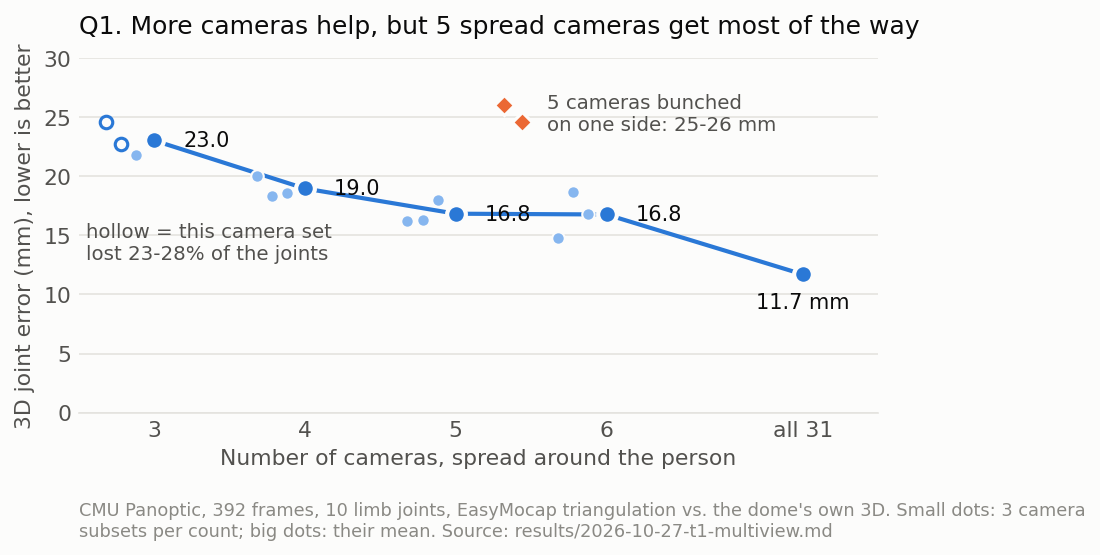
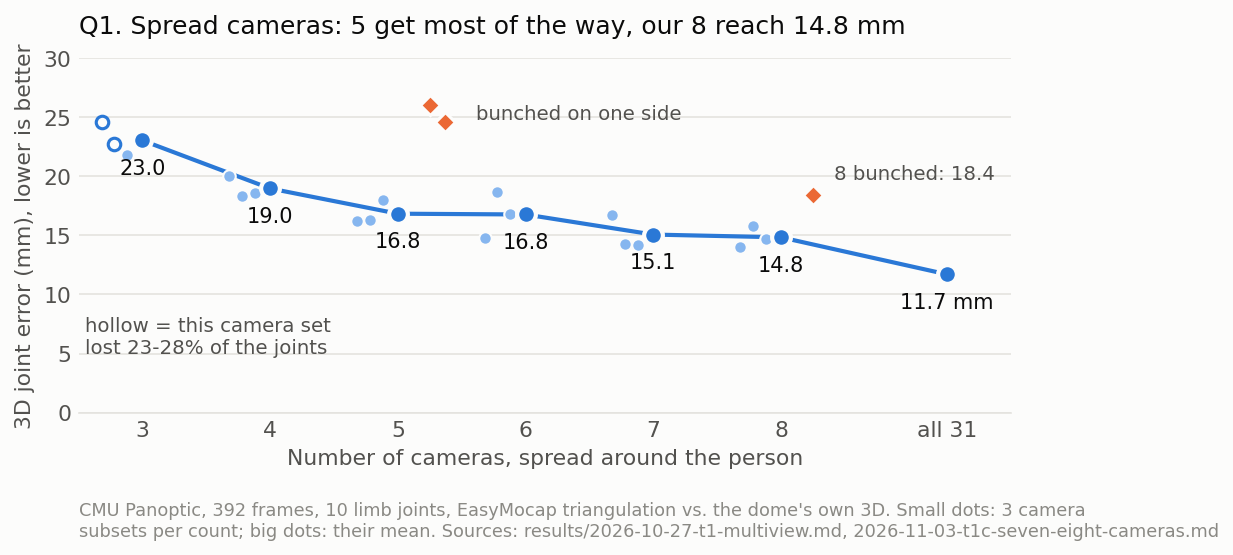
T1c: 7 and 8 cameras on Panoptic (our rig has 8 GoPros): 8 spread 14.8 mm, 8 bunched 18.4 mm; figure updated

diff --git a/reconstruction/tools/make_summary_figures.py b/reconstruction/tools/make_summary_figures.py
@@ -37,46 +37,53 @@ def style(ax, grid_axis="y"):
 
 
 def fig_cameras(out):
-    # 2026-10-27-t1-multiview.md, camera-count table: MPJPE, 10 limb joints, CMU Panoptic 171204_pose1.
-    spread = {3: [24.6, 22.7, 21.8], 4: [20.0, 18.3, 18.6], 5: [16.2, 16.3, 18.0], 6: [14.8, 18.7, 16.8]}
+    # 2026-10-27-t1-multiview.md (3-6 and 31 cameras) and 2026-11-03-t1c-seven-eight-cameras.md (7, 8):
+    # MPJPE, 10 limb joints, CMU Panoptic 171204_pose1.
+    spread = {3: [24.6, 22.7, 21.8], 4: [20.0, 18.3, 18.6], 5: [16.2, 16.3, 18.0], 6: [14.8, 18.7, 16.8],
+              7: [16.7, 14.3, 14.2], 8: [14.0, 15.8, 14.7]}
     lost = {3: [True, True, False]}          # subsets that dropped 23-28% of the joints
     clustered5 = [26.0, 24.6]                # 5 cameras bunched on one side (87-104 degree arc)
+    clustered8 = 18.4                        # 8 cameras bunched on one side (157 degree arc)
     all31 = 11.7
-    xs = [0, 1, 2, 3, 4.3]
-    labels = ["3", "4", "5", "6", "all 31"]
+    counts = (3, 4, 5, 6, 7, 8)
+    xs = [0, 1, 2, 3, 4, 5, 6.3]
+    labels = ["3", "4", "5", "6", "7", "8", "all 31"]
 
-    fig, ax = plt.subplots(figsize=(7.2, 4.0), dpi=150)
+    fig, ax = plt.subplots(figsize=(8.2, 4.0), dpi=150)
     style(ax)
     means = []
-    for x, n in zip(xs[:4], (3, 4, 5, 6)):
+    for x, n in zip(xs[:6], counts):
         vals = spread[n]
         means.append(sum(vals) / 3)
         for i, v in enumerate(vals):
             hollow = lost.get(n, [False] * 3)[i]
             ax.plot(x - 0.32 + 0.1 * i, v, "o", ms=6, mfc=SURFACE if hollow else "#86b6ef",
                     mec=BLUE if hollow else SURFACE, mew=1.5 if hollow else 1.0, zorder=3)
-    ax.plot(xs[:4] + [xs[4]], means + [all31], "-", color=BLUE, lw=2, zorder=2)
-    ax.plot(xs[:4] + [xs[4]], means + [all31], "o", ms=9, color=BLUE, mec=SURFACE, mew=2, zorder=4)
-    for x, m in zip(xs[:4], means):
-        ax.annotate(f"{m:.1f}", (x, m), xytext=(14, 0), textcoords="offset points", va="center",
+    ax.plot(xs, means + [all31], "-", color=BLUE, lw=2, zorder=2)
+    ax.plot(xs, means + [all31], "o", ms=9, color=BLUE, mec=SURFACE, mew=2, zorder=4)
+    for x, m in zip(xs[:6], means):
+        ax.annotate(f"{m:.1f}", (x, m), xytext=(0, -16), textcoords="offset points", ha="center",
                     color=INK, fontsize=10)
-    ax.annotate(f"{all31:.1f} mm", (xs[4], all31), xytext=(0, -16), textcoords="offset points",
+    ax.annotate(f"{all31:.1f} mm", (xs[6], all31), xytext=(0, -16), textcoords="offset points",
                 ha="center", color=INK, fontsize=10)
     for i, v in enumerate(clustered5):
-        ax.plot(2.32 + 0.12 * i, v, "D", ms=7, color=ORANGE, mec=SURFACE, mew=1.5, zorder=4)
-    ax.annotate("5 cameras bunched\non one side: 25-26 mm", (2.44, 25.3), xytext=(12, 0),
-                textcoords="offset points", va="center", color=INK2, fontsize=9.5)
-    ax.text(-0.45, 13.0, "hollow = this camera set\nlost 23-28% of the joints", color=INK2, fontsize=9.5)
+        ax.plot(2.25 + 0.12 * i, v, "D", ms=7, color=ORANGE, mec=SURFACE, mew=1.5, zorder=4)
+    ax.plot(5.25, clustered8, "D", ms=7, color=ORANGE, mec=SURFACE, mew=1.5, zorder=4)
+    ax.annotate("bunched on one side", (2.45, 25.3), xytext=(10, 0), textcoords="offset points", va="center",
+                color=INK2, fontsize=9.5)
+    ax.annotate("8 bunched: 18.4", (5.25, clustered8), xytext=(10, 6), textcoords="offset points", va="bottom",
+                color=INK2, fontsize=9.5)
+    ax.text(-0.45, 5.0, "hollow = this camera set\nlost 23-28% of the joints", color=INK2, fontsize=9.5)
     ax.set_xticks(xs, labels)
-    ax.set_xlim(-0.5, 4.8)
+    ax.set_xlim(-0.5, 6.8)
     ax.set_ylim(0, 30)
     ax.set_xlabel("Number of cameras, spread around the person")
     ax.set_ylabel("3D joint error (mm), lower is better")
-    ax.set_title("Q1. More cameras help, but 5 spread cameras get most of the way",
+    ax.set_title("Q1. Spread cameras: 5 get most of the way, our 8 reach 14.8 mm",
                  loc="left", fontsize=12, color=INK, pad=12)
     ax.text(0, -0.25, "CMU Panoptic, 392 frames, 10 limb joints, EasyMocap triangulation vs. the dome's own 3D. "
-            "Small dots: 3 camera\nsubsets per count; big dots: their mean. Source: results/2026-10-27-t1-multiview.md",
-            transform=ax.transAxes, fontsize=8.5, color=MUTED, va="top")
+            "Small dots: 3 camera\nsubsets per count; big dots: their mean. Sources: results/2026-10-27-t1-multiview.md, "
+            "2026-11-03-t1c-seven-eight-cameras.md", transform=ax.transAxes, fontsize=8.5, color=MUTED, va="top")
     fig.tight_layout()
     fig.savefig(out / "q1_camera_count.png", bbox_inches="tight")
     plt.close(fig)

diff --git a/reconstruction/tools/t1c_pick.py b/reconstruction/tools/t1c_pick.py
@@ -1,0 +1,34 @@
+"""T1c: choose 7- and 8-camera Panoptic subsets with T1's rule (mid-height cameras, 0.5-1.5 m above
+the hip; A = smallest largest azimuth gap, B and C = next best, each differing from A by >= 2 cameras),
+plus 8 bunched = the 8 consecutive mid-height cameras spanning the narrowest arc."""
+from itertools import combinations
+
+AZ = {"00": 184.7, "03": 36.9, "05": 108.3, "08": 260.0, "11": 239.5, "12": 87.2, "16": 310.1, "18": 17.4,
+      "20": 135.2, "21": 162.8, "22": 61.8, "23": 329.1, "27": 285.4, "29": 212.5, "30": 353.4}
+
+
+def max_gap(cams):
+    a = sorted(AZ[c] for c in cams)
+    return max([b - x for x, b in zip(a, a[1:])] + [a[0] + 360 - a[-1]])
+
+
+for n in (7, 8):
+    ranked = sorted(combinations(sorted(AZ), n), key=lambda s: (max_gap(s), s))
+    a = ranked[0]
+    picks = [a]
+    for s in ranked[1:]:
+        if len(set(a) - set(s)) >= 2 and all(len(set(p) - set(s)) >= 1 for p in picks):
+            picks.append(s)
+        if len(picks) == 3:
+            break
+    for tag, s in zip(("", "_alt1", "_alt2"), picks):
+        order = sorted(s, key=lambda c: AZ[c])
+        print(f"s{n}{tag}|{' '.join(order)}|{max_gap(s):.0f}")
+order = sorted(AZ, key=lambda c: AZ[c])
+best = None
+for i in range(len(order)):
+    s = [order[(i + k) % len(order)] for k in range(8)]
+    span = (AZ[s[-1]] - AZ[s[0]]) % 360
+    if best is None or span < best[0]:
+        best = (span, s)
+print(f"c8bunch|{' '.join(best[1])}|span{best[0]:.0f}")

diff --git a/README.md b/README.md
@@ -14,7 +14,7 @@ Every result below comes from a public dataset that has ground truth, so each nu
 
 | Question | Answer so far | Evidence |
 |---|---|---|
-| **Q1. How many cameras do we need?** | <ul><li>5–6 cameras spread around the person: about **17 mm** average joint error.</li><li>All 31 cameras: 11.7 mm.</li><li>3 cameras: about 23 mm. Two of the three 3-camera sets also lost 23–28% of the joints.</li><li>5 cameras bunched on one side: 25–26 mm.</li><li>One camera a frame out of sync adds only 0.3 mm.</li><li>Adding EasyMocap's default SMPL body fit makes every layout worse (43–47 mm with 4 or more cameras). The joints it fills in where 3 cameras lost them are guesses, about 117 mm off.</li></ul> | [T1](reconstruction/results/2026-10-27-t1-multiview.md), [T1b](reconstruction/results/2026-11-03-t1b-panoptic-smpl.md), CMU Panoptic |
+| **Q1. How many cameras do we need?** | <ul><li>5–6 cameras spread around the person: about **17 mm** average joint error. **8 cameras, the size of our rig: 14.8 mm.**</li><li>All 31 cameras: 11.7 mm.</li><li>3 cameras: about 23 mm. Two of the three 3-camera sets also lost 23–28% of the joints.</li><li>Bunched on one side, cameras do much worse: 25–26 mm with 5, and 18.4 mm with 8, which is worse than 5 spread.</li><li>One camera a frame out of sync adds only 0.3 mm.</li><li>Adding EasyMocap's default SMPL body fit makes every layout worse (43–47 mm with 4 or more cameras). The joints it fills in where 3 cameras lost them are guesses, about 117 mm off.</li></ul> | [T1](reconstruction/results/2026-10-27-t1-multiview.md), [T1b](reconstruction/results/2026-11-03-t1b-panoptic-smpl.md), [T1c](reconstruction/results/2026-11-03-t1c-seven-eight-cameras.md), CMU Panoptic |
 | **Q2. One camera or two, for rehab exercises?** | <ul><li>Two cameras: **43 mm** with no alignment at all.</li><li>One camera (GVHMR, a recent method): 47–70 mm even after the best possible alignment, and 160–200 mm off in where the body is in the room.</li><li>Main one-camera failure: in side view, the arm behind the body is hidden and gets guessed wrong.</li><li>Two cameras plus an SMPL body model: 4.83 cm on the REHAB24-6 benchmark protocol (12 recordings), against GVHMR's 6.28 cm on the same recordings. The body model improves body shape slightly (41.2 vs. 43.1 mm after alignment), but not position.</li></ul> | [T2](reconstruction/results/2026-10-27-t2-monocular.md), [T2b](reconstruction/results/2026-10-29-t2b-calibration-benchmark.md), REHAB24-6 with motion capture |
 | **Q2. How does a modern one-camera method compare with published results?** | <ul><li>On the REHAB24-6 authors' own benchmark (all 65 recordings), GVHMR's error is **6.0 cm**.</li><li>Their best method (MediaPipe) is at 8.4 cm.</li><li>Even a method given perfect 2D input is at 7.7 cm.</li><li>Two cameras plus an SMPL body model fitted to ViTPose 2D: **5.09 cm** on all 65 recordings (a two-camera result, so not an entry in their one-camera table).</li></ul> | [T2b](reconstruction/results/2026-10-29-t2b-calibration-benchmark.md), [T2d](reconstruction/results/2026-11-02-t2d-twocam-smpl-vitpose.md) |
 | **Q2. Does better 3D help tell correct from incorrect repetitions?** | <ul><li>The same group's 2026 paper found that 2D beats 3D, using MediaPipe.</li><li>With GVHMR, 3D beats 2D on both arm exercises: separability Ψ +0.11 and +0.09, with 95% intervals above 0.</li><li>For the squat, the answer depends on how the angles are measured, so it is not settled.</li><li>With two cameras and no calibration, GVHMR fused from both views scores 0.62 and 0.68 on the arm exercises, against 0.57 and 0.55 for the paper's two-camera MediaPipe method. The squat is a tie.</li></ul> | [T5](reconstruction/results/2026-10-28-t5-rehab-assessment.md), [T5b](reconstruction/results/2026-11-02-t5b-twocam-assessment.md), REHAB26-ViewAngles |

diff --git a/reconstruction/results/2026-11-03-t1c-seven-eight-cameras.md b/reconstruction/results/2026-11-03-t1c-seven-eight-cameras.md
@@ -1,0 +1,68 @@
+# T1c: 7 and 8 cameras on CMU Panoptic, 2026-11-03
+
+Follow-up to `2026-10-27-t1-multiview.md`, which tested 3–6 cameras and all 31. The team's rig has **8 GoPros**, so 7 and 8 were added. This run was done from the laptop session, because the server Claude account had hit its weekly limit.
+
+## 1. Result
+
+| Layout | MPJPE, 10 limb joints | Note |
+|---|---|---|
+| All 31 | 11.7 mm | T1 |
+| **8 spread, mean of 3 sets** | **14.8 mm** | 14.0 / 15.8 / 14.7 |
+| 7 spread, mean of 3 sets | 15.1 mm | 16.7 / 14.3 / 14.2 |
+| 6 spread | 16.8 mm | T1 |
+| 5 spread | 16.8 mm | T1 |
+| **8 bunched on one side** (157° arc) | **18.4 mm** | worse than 5 spread |
+| 5 bunched on one side | 24.6–26.0 mm | T1 |
+
+No joints were missing in any 7- or 8-camera layout.
+
+- **Eight spread cameras** are about 12% better than five or six (14.8 vs. 16.8 mm). That still leaves a gap to the full dome (11.7 mm).
+- **Placement still matters more than count.** Eight cameras over half a circle (18.4 mm) are worse than five cameras around the person (16.8 mm).
+
+For the team's rig: spread the 8 GoPros all around the person.
+
+## 2. Setup
+
+Everything is as in T1:
+- `171204_pose1`, HD frames 650–1041 (392 frames);
+- the cached HRNet 2D of all 31 cameras, so no re-detection;
+- EasyMocap `e6006fd` iterative triangulation, no SMPL;
+- scored against the dome's own 3D, on the same 10 limb joints, with `panoptic_to_easymocap.py eval --frames 392 --no-ankles`.
+
+Runs were on CPU, with `nice -n 19`. Both GPUs were held by another user's job.
+
+**Layouts.** These follow T1's rule over the 15 mid-height cameras (0.5–1.5 m above the hip). A has the smallest largest azimuth gap. B and C are the next best, each differing from A by at least 2 cameras.
+
+| Name | Cameras (in azimuth order) | Largest gap |
+|---|---|---|
+| s7 (A) | 18 22 05 21 29 08 16 | 67° |
+| s7_alt1 | 03 12 20 00 11 27 23 | 68° |
+| s7_alt2 | 03 12 20 00 11 27 30 | 68° |
+| s8 (A) | 03 12 20 00 29 08 16 30 | 50° |
+| s8_alt1 | 03 12 05 21 29 08 16 30 | 55° |
+| s8_alt2 | 03 22 05 21 29 08 16 30 | 55° |
+| c8bunch | 11 08 27 16 23 30 18 03, the 8 consecutive mid-height cameras spanning the narrowest arc | span 157° |
+
+The picks came from a short script, `reconstruction/tools/t1c_pick.py`, run on the laptop. The runs used `reconstruction/tools/t1c_run.sh` (run from `~/fall2026/logs/`), which loops T1's `make_variant.py → run_mv1p.py --use-annots --device cpu → eval`. The log is `~/fall2026/logs/2026-11-03-t1c.log`.
+
+## 4. Numbers
+
+| Layout | MPJPE (10 j.) | PA-MPJPE (10 j.) | MPJPE (12 j., with ankles) | Joints missing |
+|---|---|---|---|---|
+| s7 | 16.7 | 14.7 | 19.2 | 0.0% |
+| s7_alt1 | 14.3 | 13.0 | 15.1 | 0.0% |
+| s7_alt2 | 14.2 | 13.0 | 15.9 | 0.0% |
+| s8 | 14.0 | 12.6 | 14.8 | 0.0% |
+| s8_alt1 | 15.8 | 13.9 | 16.6 | 0.0% |
+| s8_alt2 | 14.7 | 13.3 | 16.1 | 0.0% |
+| c8bunch | 18.4 | 16.0 | 17.8 | 0.0% |
+
+## 5. Checks
+
+- Same code, 2D and frames as T1. The T1 rows are T1's own numbers.
+- The ranking rule matches T1's description. The A sets have the smallest largest gap: 67° for 7 cameras, 50° for 8.
+
+## 6. Failed or skipped
+
+- No SMPL fit. T1b showed that EasyMocap's default fit makes every layout worse.
+- One sequence, one slow-moving person, and the dome reference rather than motion capture, as in T1.

diff --git a/reconstruction/results/README.md b/reconstruction/results/README.md
@@ -25,6 +25,7 @@ Section 1 is enough for a quick read. The overview and figures are in the [top-l
 | 2026-11-02 | [T2d two cameras + SMPL, ViTPose](2026-11-02-t2d-twocam-smpl-vitpose.md) | Q2 | All 65 recordings: 5.09 cm BestFit on the paper's protocol, against GVHMR's 6.00 and the paper's 8.4. Its view-agreement filter hurts the hidden-arm frames on the T2 metrics (PA 46.0 mm) |
 | 2026-11-02 | [T5b two-camera assessment](2026-11-02-t5b-twocam-assessment.md) | Q2, assessment | Calibration-free two-camera methods on REHAB26: the paper's orthogonal 2D reproduces. GVHMR fused from two views is best on the arm exercises (0.62 / 0.68 vs. 0.57 / 0.55); the squat is a tie |
 | 2026-11-02 | [T4b avatar runs (pending)](2026-11-02-t4b-avatar-views.md) | Q3 | Prepared and checked: two-camera poses fit the person's outline better (IoU 0.835 vs. 0.813). Training waits for a GPU with 24 GB free |
+| 2026-11-03 | [T1c 7 and 8 cameras](2026-11-03-t1c-seven-eight-cameras.md) | Q1 | 8 spread cameras (our rig's size): 14.8 mm, against 16.8 for 5–6 and 11.7 for 31. 8 bunched on one side: 18.4 mm, worse than 5 spread |
 | 2026-11-03 | [T1b SMPL on Panoptic](2026-11-03-t1b-panoptic-smpl.md) | Q1 | EasyMocap's default SMPL fit makes every layout worse (43–47 mm with 4+ cameras, against 11.7–26 for triangulation). The joints it fills in for 3 cameras are about 117 mm off |
 | 2026-11-02 | [T3 internet video](2026-11-02-t3-internet-video.md) | Q4 | 41 stock clips in two rounds. GVHMR is consistent with the image on 20. The counter, fixed before round 2, is exact on 4 of 4 new clips where the right person is tracked. In 2 of 3 clips with a coach it followed the coach. A rule that picks the person who moves most fixed both, but on 13 new trainer clips it was right in 5 of 9 against the default's 7 of 9: neither is reliable |
 | 2026-11-02 | [Depth noise](2026-11-02-depth-noise.md) | Q2, Q3 | GVHMR's depth error is mostly a constant offset plus slow drift (17 of 72 mm is jitter), so smoothing does not help. Depth must come from a second camera |
